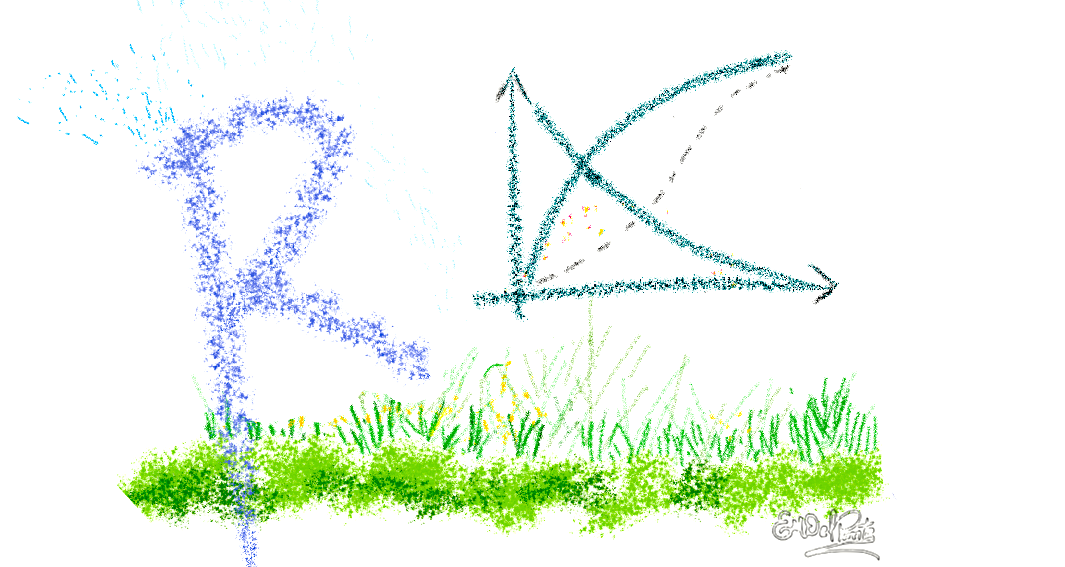
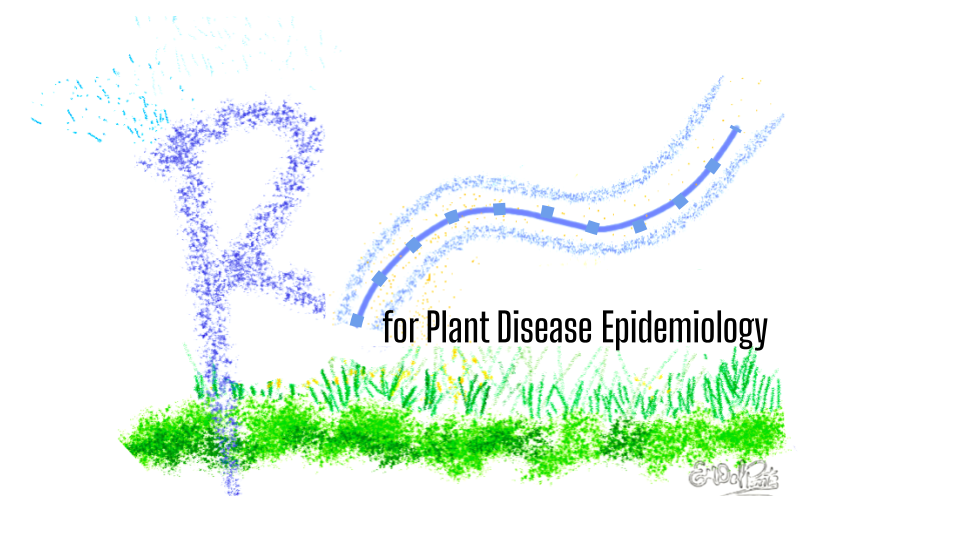
new cover

diff --git a/docs/index.html b/docs/index.html
@@ -46,7 +46,8 @@
 <span class="header-section-number">1</span> What is R4PDE?<a class="anchor" aria-label="anchor" href="#what-is-r4pde"><i class="fas fa-link"></i></a>
 </h1>
 <div class="inline-figure"><img src="images/cover.png" style="background:none; border:none; box-shadow:none;border:0px; width: 100%"></div>
-<p><strong>R for Plant Disease Epidemiology in R</strong> is an under development book project based on the teaching notes of my graduate course, <strong>FIP 602 - Plant Disease Epidemiology</strong>, that I offered every year (started in 2017) for students of the <a href="http://www.dfp.ufv.br/grad/">Graduate Program in Plant Pathology</a> of the Universidade Federal de Viçosa.</p>
+<p><strong>R for Plant Disease Epidemiology</strong> is a book project in the development stage. It is based on my teaching notes of a graduate course, currently <strong>FIP 602 - Plant Disease Epidemiology</strong>, that I offered every year (started in 2007 at my previous job) for students of the <a href="http://www.dfp.ufv.br/grad/">Graduate Program in Plant Pathology</a> of the Universidade Federal de Viçosa.</p>
+<p>This book is intended for those who have a minimum knowledge of R programming sing the RStudio IDE and the tidyverse ecosystem. I make use of several general or specific R packages for conducting the most common tasks related with the analysis of plant disese epidemiology data. The book is accompanied by an R package (r4pde) where dataset and some functions developed by the author can be used.</p>
 
 </div>
   <div class="chapter-nav">
@@ -70,7 +71,7 @@
 <footer class="bg-primary text-light mt-5"><div class="container"><div class="row">
 
   <div class="col-12 col-md-6 mt-3">
-    <p>"<strong>R4PDE</strong>" was written by Emerson M. Del Ponte. It was last built on 2021-02-06.</p>
+    <p>"<strong>R4PDE</strong>" was written by Emerson M. Del Ponte. It was last built on 2021-02-07.</p>
   </div>
 
   <div class="col-12 col-md-6 mt-3">

diff --git a/docs/population-dynamics-models.html b/docs/population-dynamics-models.html
@@ -256,7 +256,7 @@
 <footer class="bg-primary text-light mt-5"><div class="container"><div class="row">
 
   <div class="col-12 col-md-6 mt-3">
-    <p>"<strong>R4PDE</strong>" was written by Emerson M. Del Ponte. It was last built on 2021-02-06.</p>
+    <p>"<strong>R4PDE</strong>" was written by Emerson M. Del Ponte. It was last built on 2021-02-07.</p>
   </div>
 
   <div class="col-12 col-md-6 mt-3">
